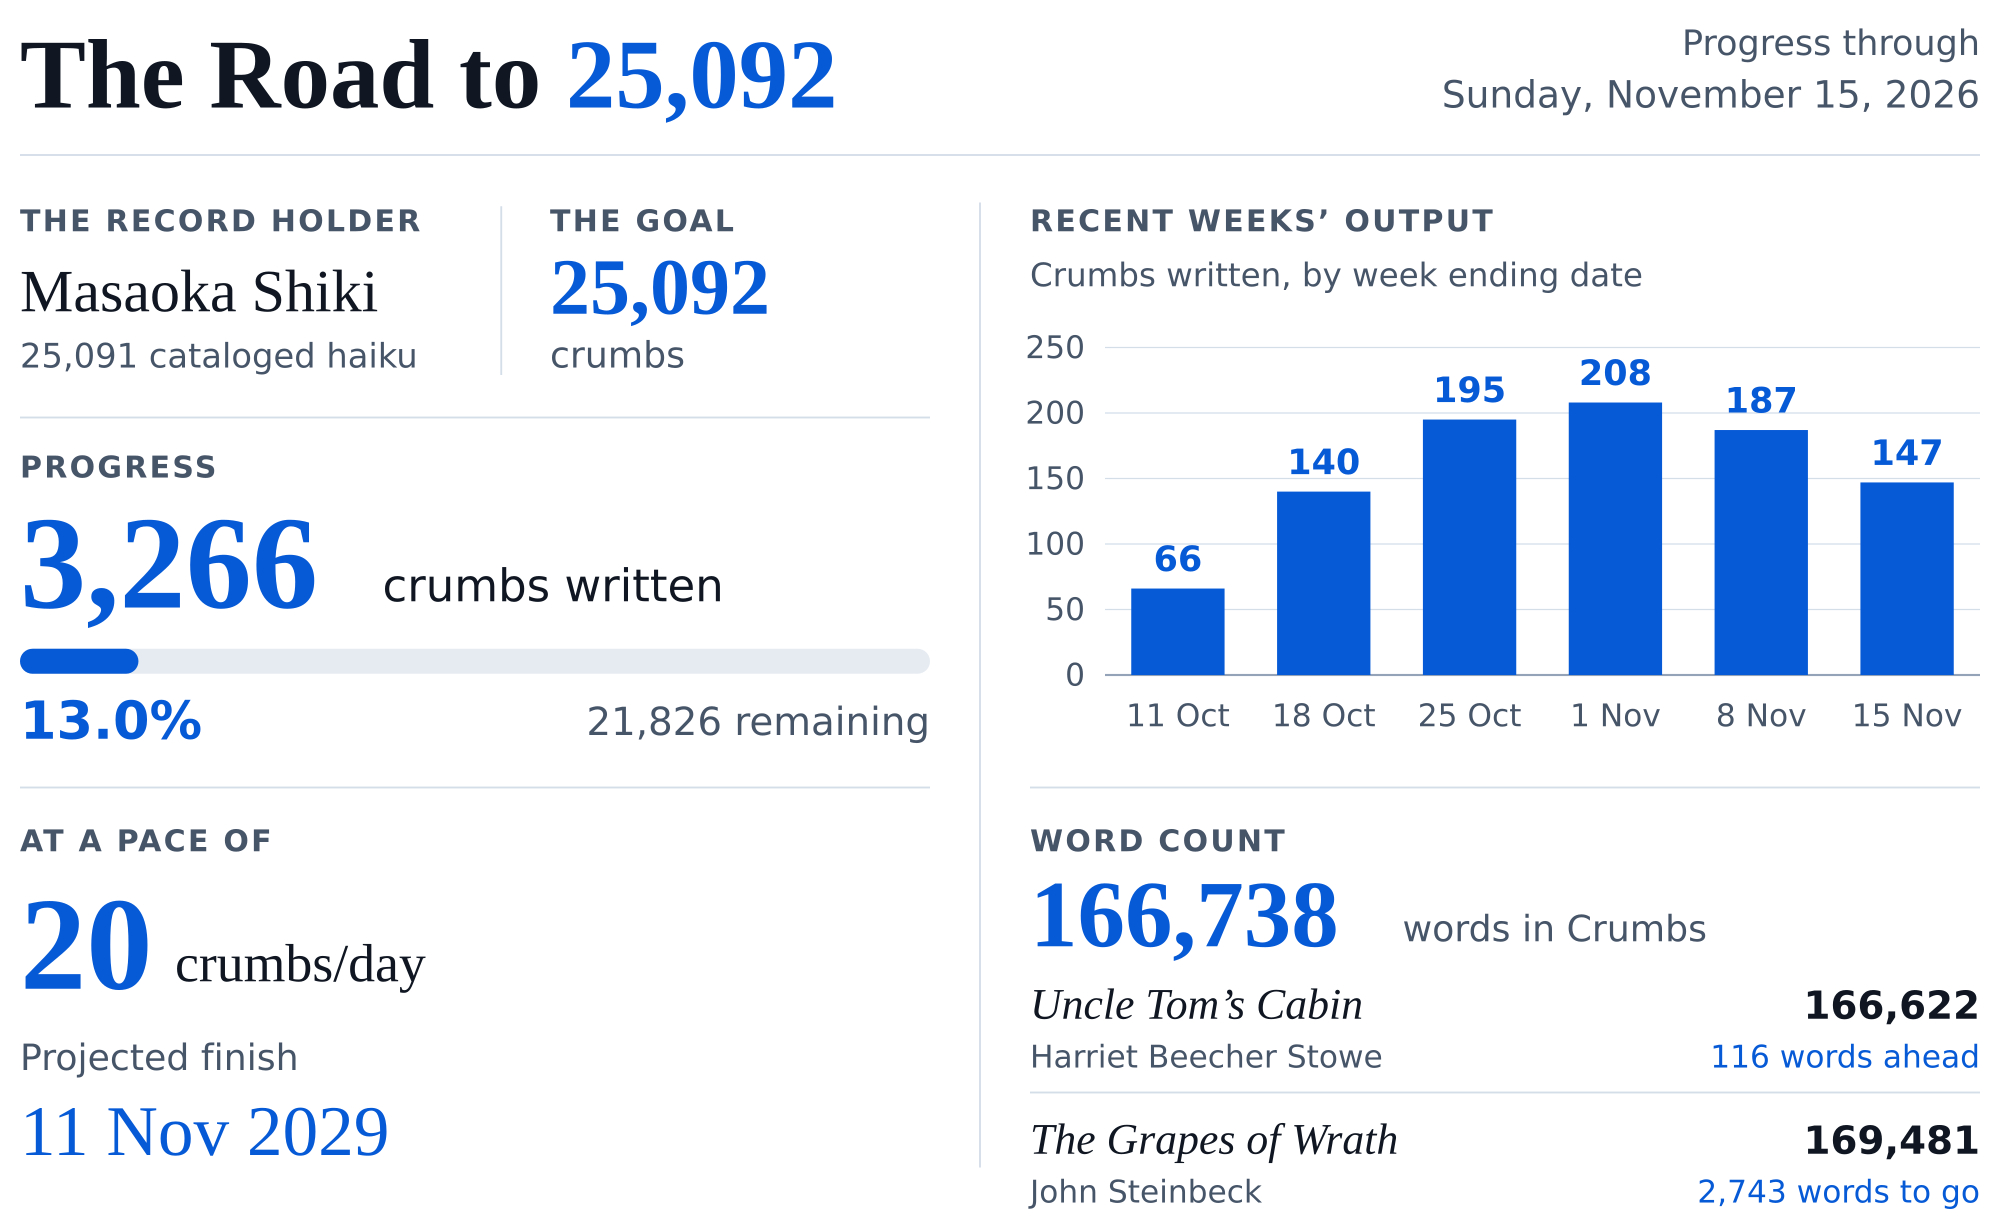
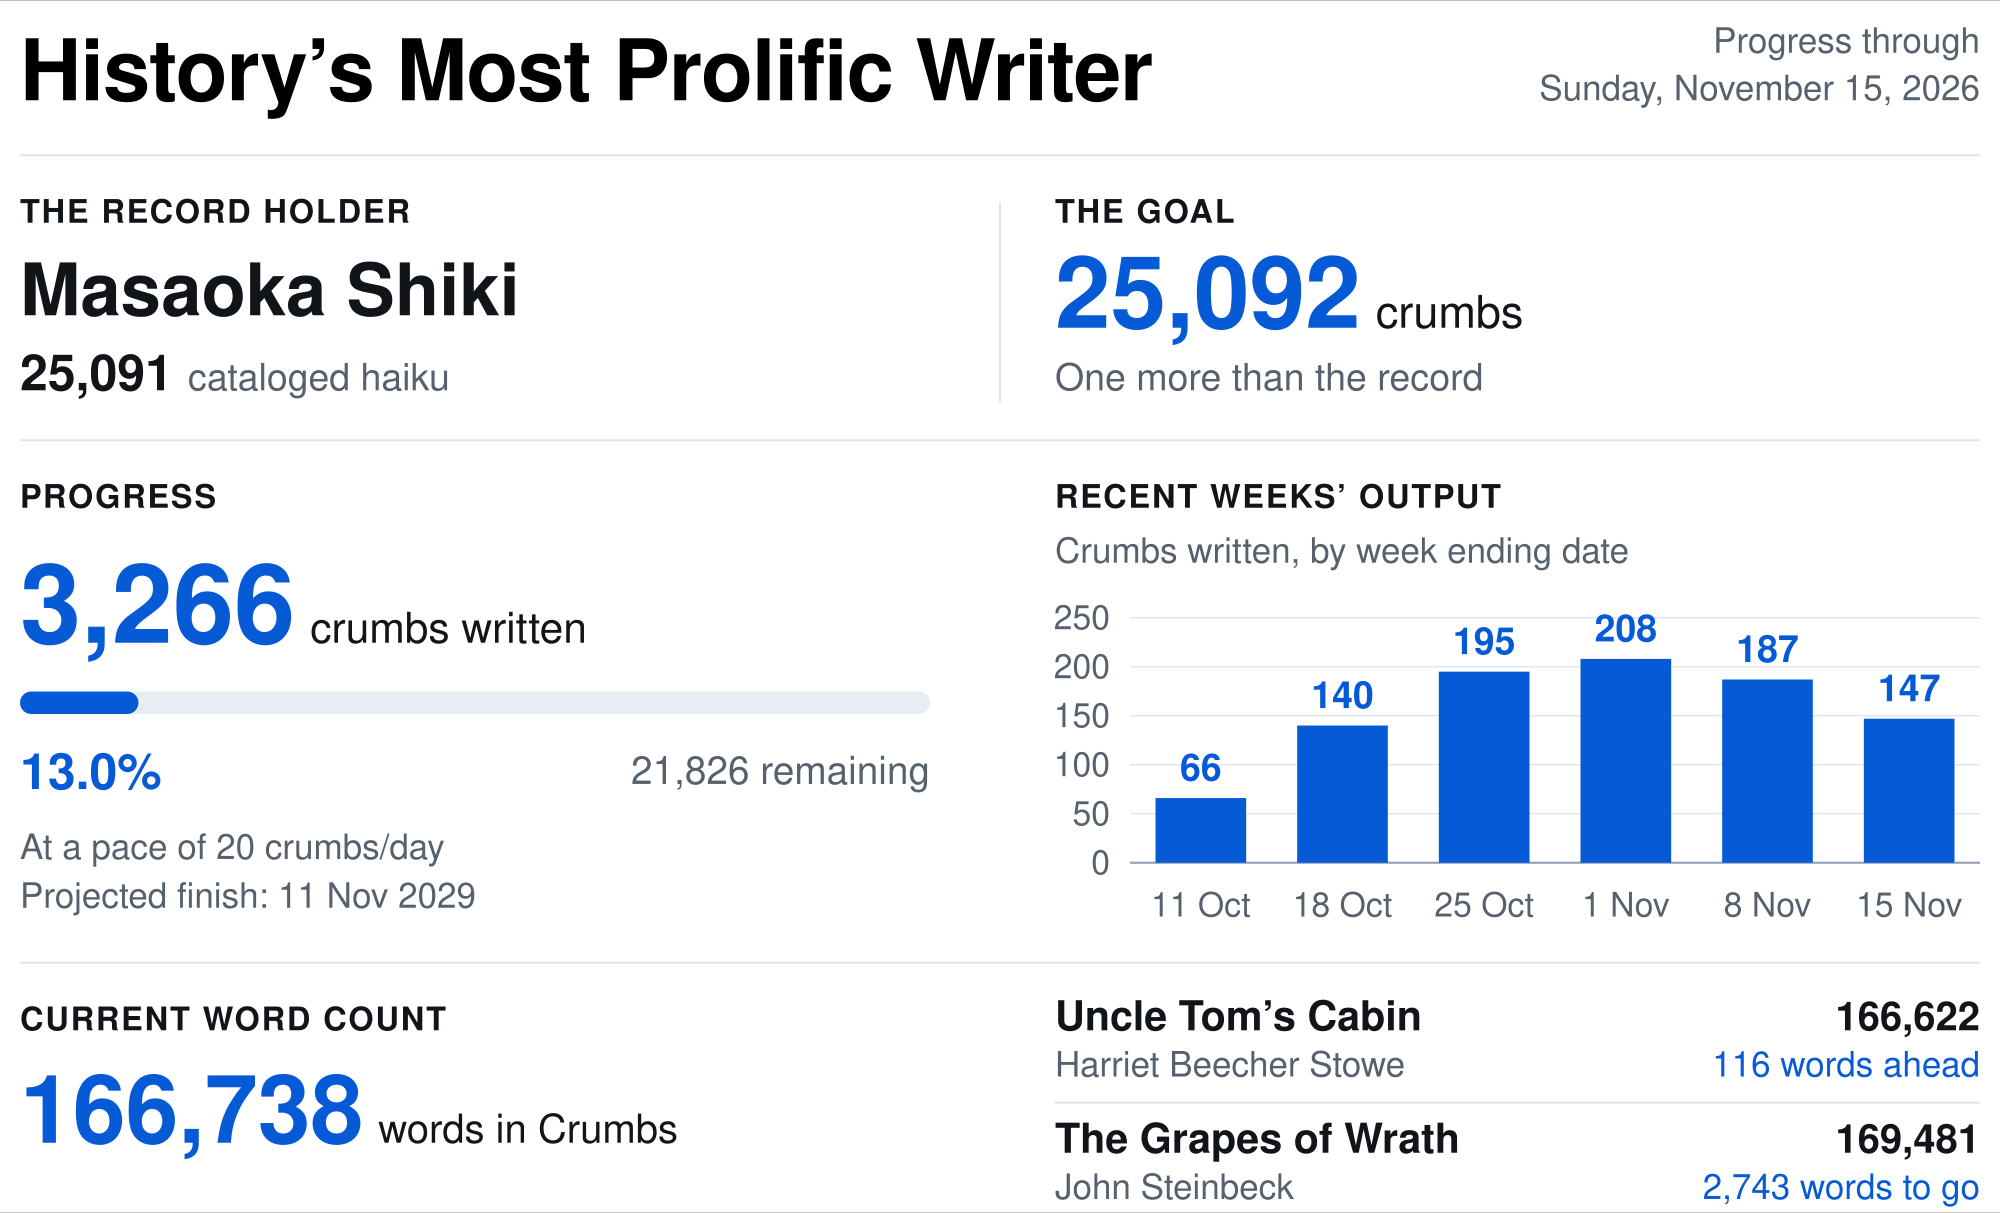
Refine Stats typography and prioritize the record and goal

diff --git a/index.html b/index.html
@@ -145,7 +145,7 @@
 <p><em>Crumb 2225</em>: <strong>My Real Competitors</strong>: Worried, for once, about accuracy, I asked my assistant ChatGPT to conduct an exhaustive investigation about what concerns crumb 2169, and it concluded that of Mr. Takahama’s purported more than 30,000 haiku, only 22,189 have been documented, which turns his teacher, the also Japanese poet Masaoka Shiki, into the most prolific writer in history, with 25,091 catalogued 5-7-5 poems. Suddenly, for me to inherit this figurative throne, 25,092 crumbs will suffice.</p>
 <picture class="crumbs-stats-image">
   <source media="(max-width: 600px)" srcset="img/ProgressP.jpg" />
-  <img src="img/Progress.jpg" alt="The Road to 25,092: Progress through Sunday, November 15, 2026 - The Record Holder: Masaoka Shiki: 25,091 cataloged haiku - The Goal: Write 25,092 crumbs - Progress: 3,266 crumbs written; 13.0% completed; 21,826 remaining - At a pace of 20 crumbs/day: Projected finish 11 Nov 2029 - Weekly Output: Number of crumbs written, by week ending date: 11 Oct 2026 = 66, 18 Oct 2026 = 140, 25 Oct 2026 = 195, 1 Nov 2026 = 208, 8 Nov 2026 = 187, 15 Nov 2026 = 147 - Word Count: Crumbs: 166,738 words; Harriet Beecher Stowe’s Uncle Tom’s Cabin: 166,622 words (116 words ahead); John Steinbeck’s The Grapes of Wrath: 169,481 words (2,743 words to go)" />
+  <img src="img/Progress.jpg" alt="History’s Most Prolific Writer: Progress through Sunday, November 15, 2026 - The Record Holder: Masaoka Shiki: 25,091 cataloged haiku - The Goal: Write 25,092 crumbs, one more than the record - Progress: 3,266 crumbs written; 13.0% completed; 21,826 remaining - At a pace of 20 crumbs/day: Projected finish 11 Nov 2029 - Weekly Output: Number of crumbs written, by week ending date: 11 Oct 2026 = 66, 18 Oct 2026 = 140, 25 Oct 2026 = 195, 1 Nov 2026 = 208, 8 Nov 2026 = 187, 15 Nov 2026 = 147 - Current Word Count: Crumbs: 166,738 words; Harriet Beecher Stowe’s Uncle Tom’s Cabin: 166,622 words (Crumbs: 116 words ahead); John Steinbeck’s The Grapes of Wrath: 169,481 words (Crumbs: 2,743 words to go)" />
 </picture>
 
 <h2 id="short-faq">What Is in It for You?</h2>
